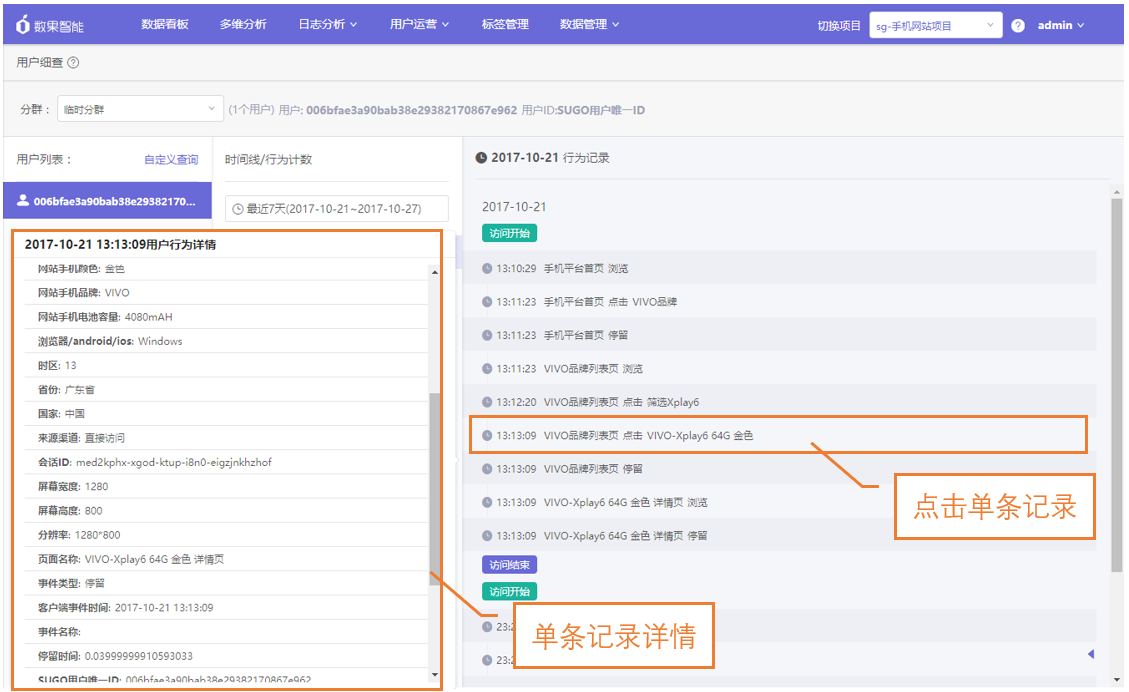
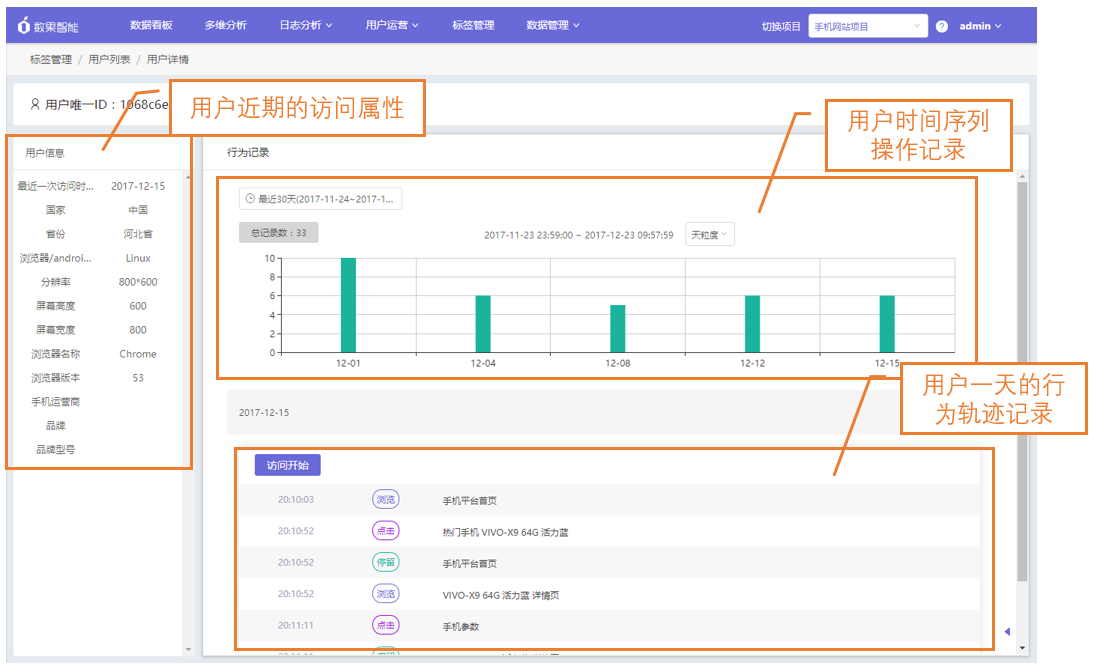
编辑tingyun文档

diff --git a/user/user-quota.md b/user/user-quota.md
@@ -1,0 +1,50 @@
+# 用户指标
+## 全部访问用户
+**定义**: 访问您网站/应用的独立访客数。
+
+**说明**: 指数果用来标记用户的唯一ID的去重数。用户的唯一标识依赖于cookies与用户使用的独立设备。
+
+## 新访问用户
+**定义**：历史第一次访问您网站/应用的独立访客数。
+
+**说明**：
+* 网站新访问用户的计算方法：以数果的用户唯一ID作为判断的依据，而用户唯一ID的获取方式为cookie->随机数。用户的唯一ID会一直保存在用户的浏览器上，如果用户不清除cookies或cookies过期，一个浏览器的ID是固定的。如果用户清除cookies或cookies过期（一般会在365天之后），取随机数的用户唯一ID会生成新的随机数，那么被认为是新的用户。
+* APP新访问用户的计算方法：以数果的用户唯一ID作为判断的依据，而用户唯一标识的获取方式为AndroidID->IMEI->随机数；iOS的IDFV->随机数。用户的唯一ID会一直保存在用户的设备上，如果用户不删除应用，一台设备的ID是固定的。如果用户删除应用再安装，取随机数的用户唯一ID会生成新的随机数，那么被认为是新的用户。
+* **所以，新接入数果SDK的短时间内新用户量会偏高，随着时间变长会逐渐稳定。**
+
+## 全部登录用户
+**定义**：登录的用户数量
+
+**说明**：需要在接入SDK时调用数果的用户登录事件，并创建用户库存放用户登录信息才能获取登录用户。
+
+* 具体接入说明请参照：[开发者文档](/developer/web/developer-docs-web.md)
+* 用户库说明请参照：[用户库功能](/project-management.md#user-library)
+
+## 新登录用户
+**定义**：在项目的用户库内新出现的登录用户数量
+
+**说明**：需要在接入SDK时调用数果的用户登录事件，并创建用户库存放用户登录信息才能获取登录用户。
+
+* 具体接入说明请参照：[开发者文档](/developer/web/developer-docs-web.md)
+* 用户库说明请参照：[用户库功能](/project-management.md#user-library)
+
+***
+**应用**：在多维分析、路径分析、留存分析、漏斗分析、事件分析中更改目标用户的类型，即可选择相应的用户指标进行分析。
+
+如：在使用留存分析分析用户时，对用户类型进行切换。分别查看：
+* 最近7天全部访问用户的留存情况
+* 最近7天新访问用户的留存情况
+* 最近7天全部登录用户的留存情况
+* 最近7天新登陆用户的留存情况
+![](/assets/user/user-7.gif)
+
+
+关于用户运营的介绍：
+  * [用户运营](user-operation.md)
+  * [场景数据设置](user-operation.md#scene-setting)
+  * [用户分群](user-segmentation.md)
+  * [用户行为轨迹](user-segmentation.md#behavior-trace)
+  * [路径分析](path-analytics.md)
+  * [留存分析](retation-analytics.md)
+  * [漏斗分析](funnel-analytics.md)
+  * [事件分析](event-analytics.md)

diff --git a/developer/android/README.md b/developer/android/README.md
@@ -234,9 +234,20 @@ if(imageUpload()){
 }
 ```   
 
-### 1.3 开启 H5 埋点   
+#### 1.3 首次登录
+调用 `SugoAPI.login(userIdKey, userIdValue)` 来记录一次用户登录行为（后台需要配置用户表）
 
-##### 1.3.1. WebView 支持   
+其中，`userIdKey` 是上报 `userIdValue` 的维度名，`userIdValue` 一般是用户标识，例如 `SugoAPI.login("userId", 123456)` 。
+
+调用 `login`之后，如果是第一次登录，则触发【首次登录】事件，并且将来所有上报的事件都会带上【首次登录时间】【userIdKey】这个维度。
+
+调用 `SugoAPI.logout()` 退出登录，这两个维度将不会继续上报。
+
+* 需要为项目创建一个用户库以存放用户登录信息，注意如没有设置将无法存储用户上报的登录信息。相关说明参照 [用户库功能](project-management.md#user-library)
+
+### 1.4 开启 H5 埋点   
+
+##### 1.4.1. WebView 支持   
 
 ```Java   
 
@@ -261,7 +272,7 @@ webView.setWebViewClient(new WebViewClient() {
     });
 ```
 
-##### 1.3.2 XWalkView 支持   
+##### 1.4.2 XWalkView 支持   
 
 > 如果您想要在项目中支持 XWalkView 的可视化埋点 ，可以使用以下代码
 > (先要引用 sugo android sdk 的 xwalk 扩展库)
@@ -295,9 +306,9 @@ webView.setWebViewClient(new WebViewClient() {
 才能使得 XWalkView 的网页内容被上传至可视化埋点   
 
 
-##### 1.3.3 H5 代码埋点   
+##### 1.4.3 H5 代码埋点   
 
-在进行了 `1.3.1` 或 `1.3.2` 的操作之后，SugoSDK 可支持 H5 的可视化埋点。   
+在进行了 `1.4.1` 或 `1.4.2` 的操作之后，SugoSDK 可支持 H5 的可视化埋点。   
 如果需要代码埋点，可在 js 中调用以下方法：   
 
 自定义事件，参数如下：   
@@ -311,13 +322,13 @@ webView.setWebViewClient(new WebViewClient() {
 sugo.track(event_id, event_name, props);
 ```
 
-时长事件（可参照 3.1.2）   
+时长事件（可参照 1.2）   
 
 ```JavaScript
 sugo.timeEvent(event_name);
 ```
 
-#### 1.4 默认属性   
+#### 1.5 默认属性   
 
 有一种很常见的情况，你想让一些常见的属性在每一个事件中都添加上，因此，你可以将这些属性注册为`默认属性`。   
 

diff --git a/user/user-operation.md b/user/user-operation.md
@@ -19,7 +19,14 @@
 ## 场景数据设置<div id="scene-setting"></div>
 在进行用户分析之前，我们需要对用户的场景数据进行设置。只有正确配置该场景设置后，才可以使⽤⽤户⾏为分析的相应模型，做⼀些⾏为分析，如漏⽃分析、留存分析、路径分析和事件分析等。
 
+### 用户类型数据设置
+设置用户类型数据用于做数据分析时对目标用户的细分分析，如新访问用户，新登录用户的细分，常用于用户的行为分析。完成用户类型数据的设置后，即可在留存分析、漏斗分析等工具中，选择目标用户为新访问用户/全部登录用户/新登录用户进行行为分析。
 * 用户ID: 标识用户唯一性的维度，可同时设置多个识别用户唯一性的维度，包括用户ID、设备ID、电话、邮箱等
+* 登录ID：标识用户的业务唯一性的维度，如会员ID。用于统计登录用户
+* 首次访问时间：记录用户的第一次访问时间的维度，用于分析新访问用户行为
+* 首次登录时间：记录用户的第一次登录时间的维度，用于分析新登陆用户行为
+
+### 用户行为数据设置
 * SessionID: 标识用户会话状态唯一性的维度，每次只能设置一个维度，记录包括用户的访问时长、访问时间间隔、登录和注册来源等用户访问服务器的维度
 * 路径分析维度: 指定设置（路径分析需要的）页面名称/页面路径/事件名称维度
 * 用户行为维度-页面名称: 标识用户访问页面的标题维度
@@ -28,6 +35,7 @@
 
 
 关于用户运营的介绍：
+  * [用户指标](user-quota.md)
   * [用户分群](user-segmentation.md)
   * [用户行为轨迹](user-segmentation.md#behavior-trace)
   * [路径分析](path-analytics.md)

diff --git a/user/user-segmentation.md b/user/user-segmentation.md
@@ -49,6 +49,10 @@
 
 ![](/assets/user/user-2.gif)
 
+### 用户列表
+点击查看用户的列表，可查看该用户群的用户列表，以及用户的最近访问情况。
+![](/assets/user/user-5.png)
+
 ### 三、用户行为轨迹 <div id="behavior-trace"></div>
 当您定位到您所关心的某一用户群体以后，用户细查可以进一步帮助您了解这个群体内的用户在您的产品内的行为轨迹，从而清晰地展现用户与产品的整个交互过程。
 进入用户细查，查看该群的所有用户在分群的时间范围内的行为操作轨迹。便于跟进高价值的用户与发现产品潜在问题。
@@ -56,13 +60,15 @@
 点击用户列表右侧的“自定义查询”，弹出用户ID的添加界面，选择用户ID类型，输入某个用户的ID后点击“确定”可过滤此用户出来单独查看。
 ![](/assets/user/user-3.gif)
 2.	用户行为路径详情查询
-通过用户行为路径的时间线，查看用户在分群的时间范围内的行为操作记录。点击某条行为记录即可查看该行为的具体用户详情。
-
 ![](/assets/user/user-4.png)
+通过用户轨迹行为的时间序列操作记录，查看用户在分群的时间范围内的行为操作记录。点击某条行为记录即可查看该行为的具体用户详情。
+![](/assets/user/user-6.gif)
 
 
 关于用户运营的介绍：
-  * [用户运营](user/user-operation.md)
+  * [用户运营](user-operation.md)
+  * [用户指标](user-quota.md)
+  * [场景数据设置](user-operation.md#scene-setting)
   * [路径分析](path-analytics.md)
   * [留存分析](retation-analytics.md)
   * [漏斗分析](funnel-analytics.md)

diff --git a/SUMMARY-tsa.md b/SUMMARY-tsa.md
@@ -7,6 +7,7 @@
     * [数据文件导入](project-management.md#file-access)
     * [日志导入](project-management.md#log-access)
     * [创建子项目](project-management.md#create-son)
+    * [用户库](project-management.md#user-library)
   * [数据导入工具](data-import.md)
   * [业务表管理](business-management.md)
   * [维度管理](dimension-management.md)
@@ -39,6 +40,7 @@
   * [图表统计](analytics/log.md#graphic)
 * [监控告警](analytics/monitoring.md)
 * [用户运营](user/user-operation.md)
+  * [用户指标](user/user-quota.md)
   * [场景数据设置](user/user-operation.md#scene-setting)
   * [用户分群](user/user-segmentation.md)
   * [用户行为轨迹](user/user-segmentation.md#behavior-trace)
@@ -46,8 +48,8 @@
   * [留存分析](user/retation-analytics.md)
   * [漏斗分析](user/funnel-analytics.md)
   * [事件分析](user/event-analytics.md)
-* [开发者文档](developer-docs-web.md)
-  * [WEB SDK](developer-docs-web.md)
+* [开发者文档](developer/web/developer-docs-web.md)
+  * [WEB SDK](developer/web/developer-docs-web.md)
   * Android SDK
     * [SDK 集成](developer/android/README.md#anchor-1)
     * [SDK 配置](developer/android/README.md#anchor-2)

diff --git a/developer/web/developer-docs-web.md b/developer/web/developer-docs-web.md
@@ -118,6 +118,28 @@
   });
 ```
 
+
 ### sugoio.register_once(object)
 
 在 Cookie 中永久保存属性，如果存在这个属性了则不覆盖
+
+
+
+## 用户登录事件
+用户成功登录后，上报用户的登录信息
+```javascript
+  sugoio.track_first_time('test_user_id', 'user_real_dimension', callbakFunc);
+```
+
+用户退出登录后，不再上报用户的登录信息
+```javascript
+sugoio.clear_first_login('test_user_id');  // 清除用户登录状态
+```
+
+* **test_user_id:** 用户真实id；（必填）
+* **user_real_dimension:** 用户真实id所属维度名称。需要在数果平台上创建自定义维度用于存储用户的真实id；（必填）
+* **callbakFunc:** 方法回调函数；（非必填）
+
+  例如：`sugoio.track_first_time('sugovip', 'user_id', function (err){console.log(err)});
+`
+* 需要为项目创建一个用户库以存放用户登录信息，注意如没有设置将无法存储用户上报的登录信息。相关说明参照 [用户库功能](project-management.md#user-library)

diff --git a/developer/ios/objc/adv-use.md b/developer/ios/objc/adv-use.md
@@ -128,7 +128,7 @@ sugo.timeEvent(event_name);					// 在开始统计时长的时候调用
 sugo.track(event_id, event_name, props);	// 准备把自定义事件发送到服务器时
 ```
 
-#### 3.2.5 跟踪用户首次登录
+#### 3.2.5 用户登录事件
 
 当需要跟踪用户首次登录用户账户时，可调用
 
@@ -139,3 +139,5 @@ sugo.track(event_id, event_name, props);	// 准备把自定义事件发送到服
 ```
 [[Sugo sharedInstance] trackFirstLoginWith:@"user_id" dimension: @"user_id_dimension"]; 
 ```
+
+* 需要为项目创建一个用户库以存放用户登录信息，注意如没有设置将无法存储用户上报的登录信息。相关说明参照 [用户库功能](project-management.md#user-library)

diff --git a/developer/ios/swift/adv-use.md b/developer/ios/swift/adv-use.md
@@ -125,7 +125,7 @@ sugo.timeEvent(event_name);	// 在开始统计时长的时候调用
 sugo.track(event_id, event_name, props);	// 准备把自定义事件发送到服务器时
 ```
 
-#### 3.2.5 跟踪用户首次登录
+#### 3.2.5 用户登录事件
 
 当需要跟踪用户首次登录用户账户时，可调用
 
@@ -136,3 +136,5 @@ sugo.track(event_id, event_name, props);	// 准备把自定义事件发送到服
 ```
 Sugo.mainInstance().trackFirstLogin(with: "userId", dimension: "userIdDimension")
 ```
+
+* 需要为项目创建一个用户库以存放用户登录信息，注意如没有设置将无法存储用户上报的登录信息。相关说明参照 [用户库功能](project-management.md#user-library)

diff --git a/user/retation-analytics.md b/user/retation-analytics.md
@@ -211,6 +211,9 @@ C
 通过对比，可以看到不同优惠券领取的用户量和转化效果。点击马上领券A的用户转化相比其他的更为明显。
 
 关于用户运营的介绍：
+  * [用户运营](user-operation.md)
+  * [用户指标](user-quota.md)
+  * [场景数据设置](user-operation.md#scene-setting)
   * [用户分群](user-segmentation.md)
   * [用户行为轨迹](user-segmentation.md#behavior-trace)
   * [路径分析](path-analytics.md)

diff --git a/SUMMARY.md b/SUMMARY.md
@@ -60,8 +60,8 @@
   * [RFM客户细分](rfm/intro.md)
       * [RFM模型介绍](rfm/background.md)
       * [应用场景](rfm/index.md)
-* [开发者文档](developer-docs-web.md)
-  * [WEB SDK](developer-docs-web.md)
+* [开发者文档](developer/web/developer-docs-web.md)
+  * [WEB SDK](developer/web/developer-docs-web.md)
   * Android SDK
     * [SDK 集成](developer/android/README.md#anchor-1)
     * [SDK 配置](developer/android/README.md#anchor-2)

diff --git a/user/path-analytics.md b/user/path-analytics.md
@@ -89,6 +89,9 @@
 ![](/assets/user/path-7.png)
 
 关于用户运营的介绍：
+  * [用户运营](user-operation.md)
+  * [用户指标](user-quota.md)
+  * [场景数据设置](user-operation.md#scene-setting)
   * [用户分群](user-segmentation.md)
   * [用户行为轨迹](user-segmentation.md#behavior-trace)
   * [留存分析](retation-analytics.md)
